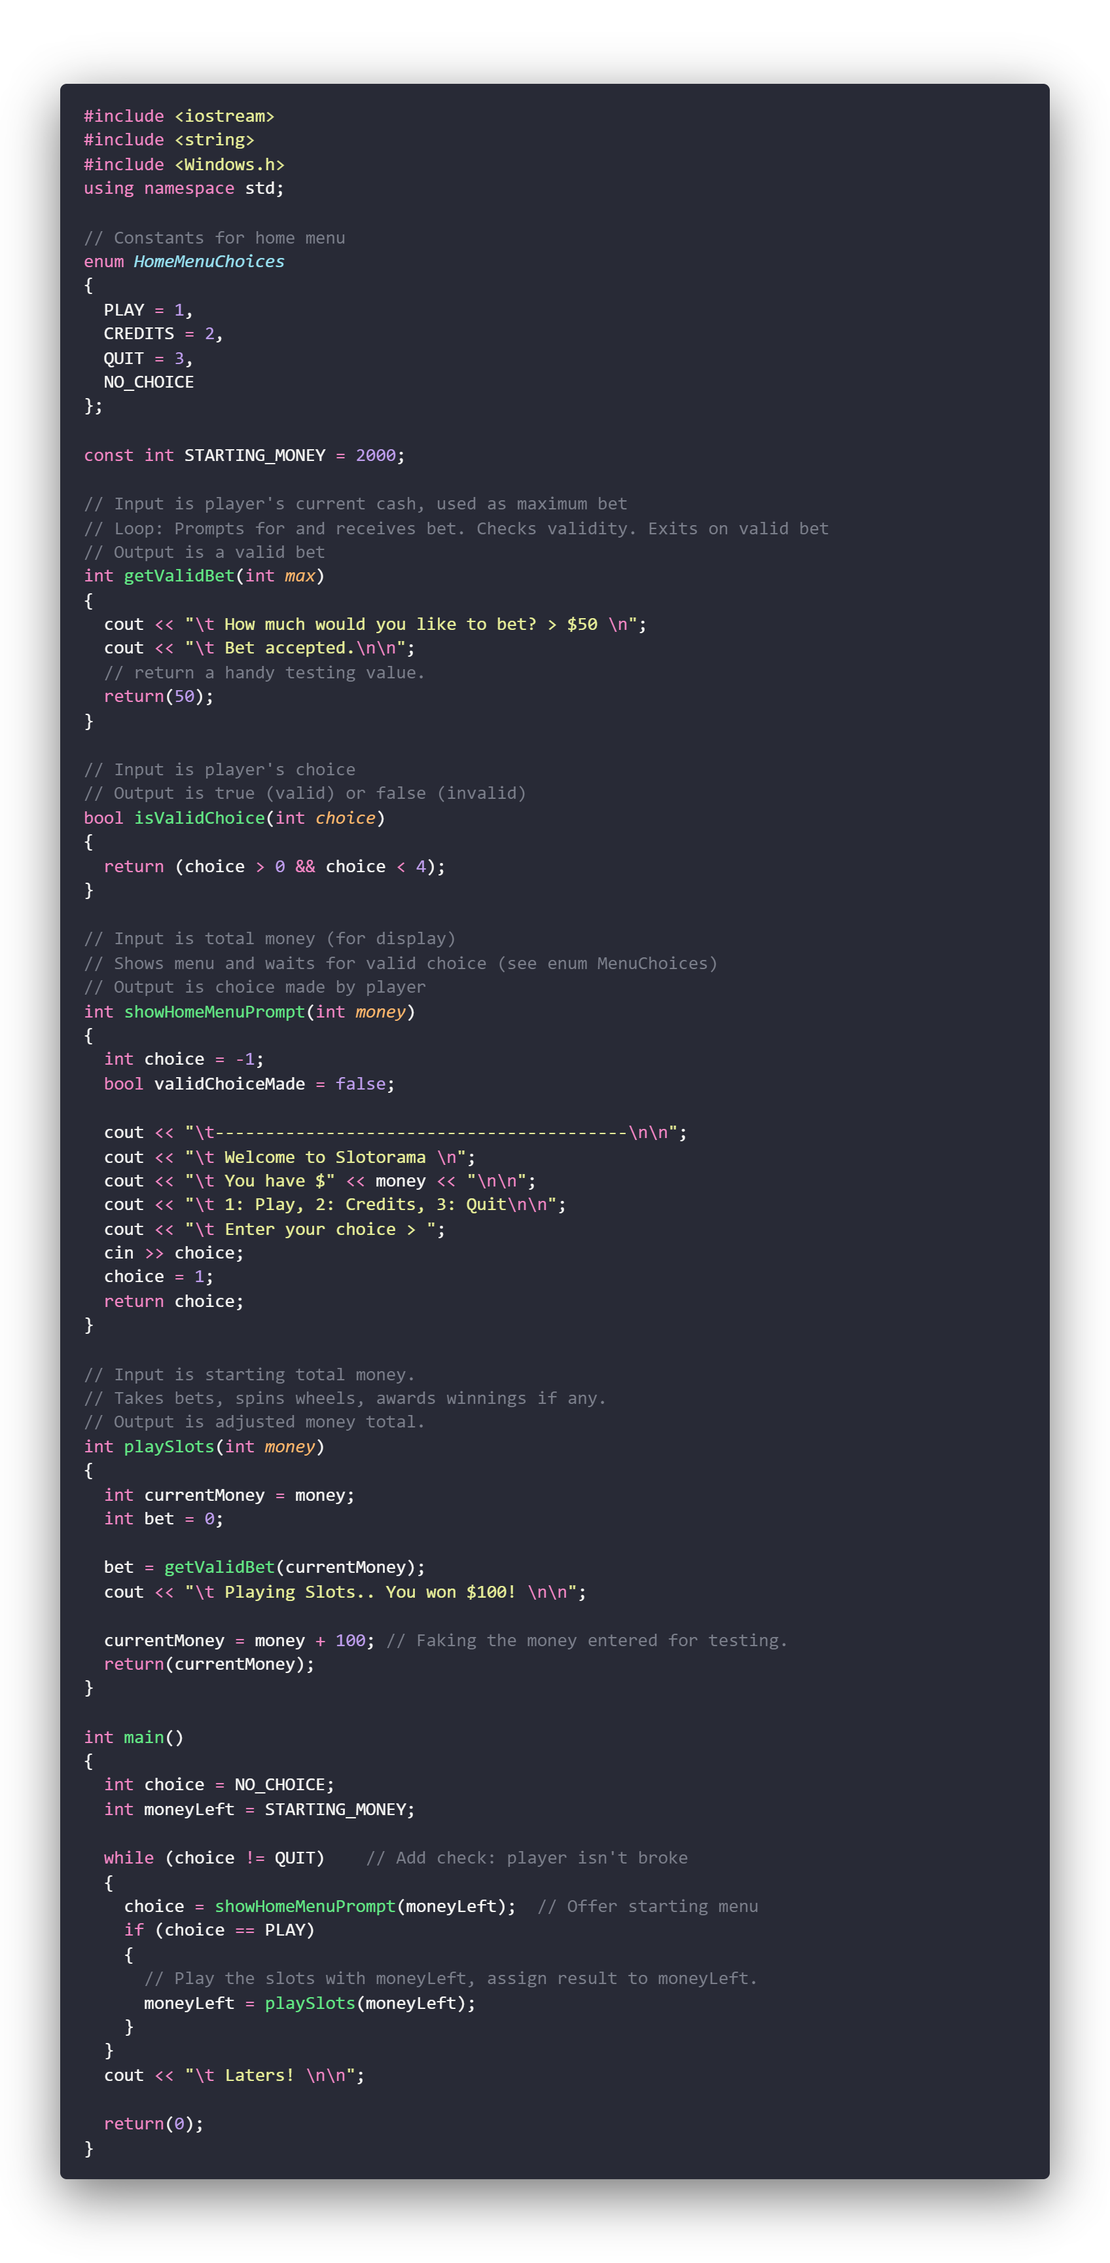
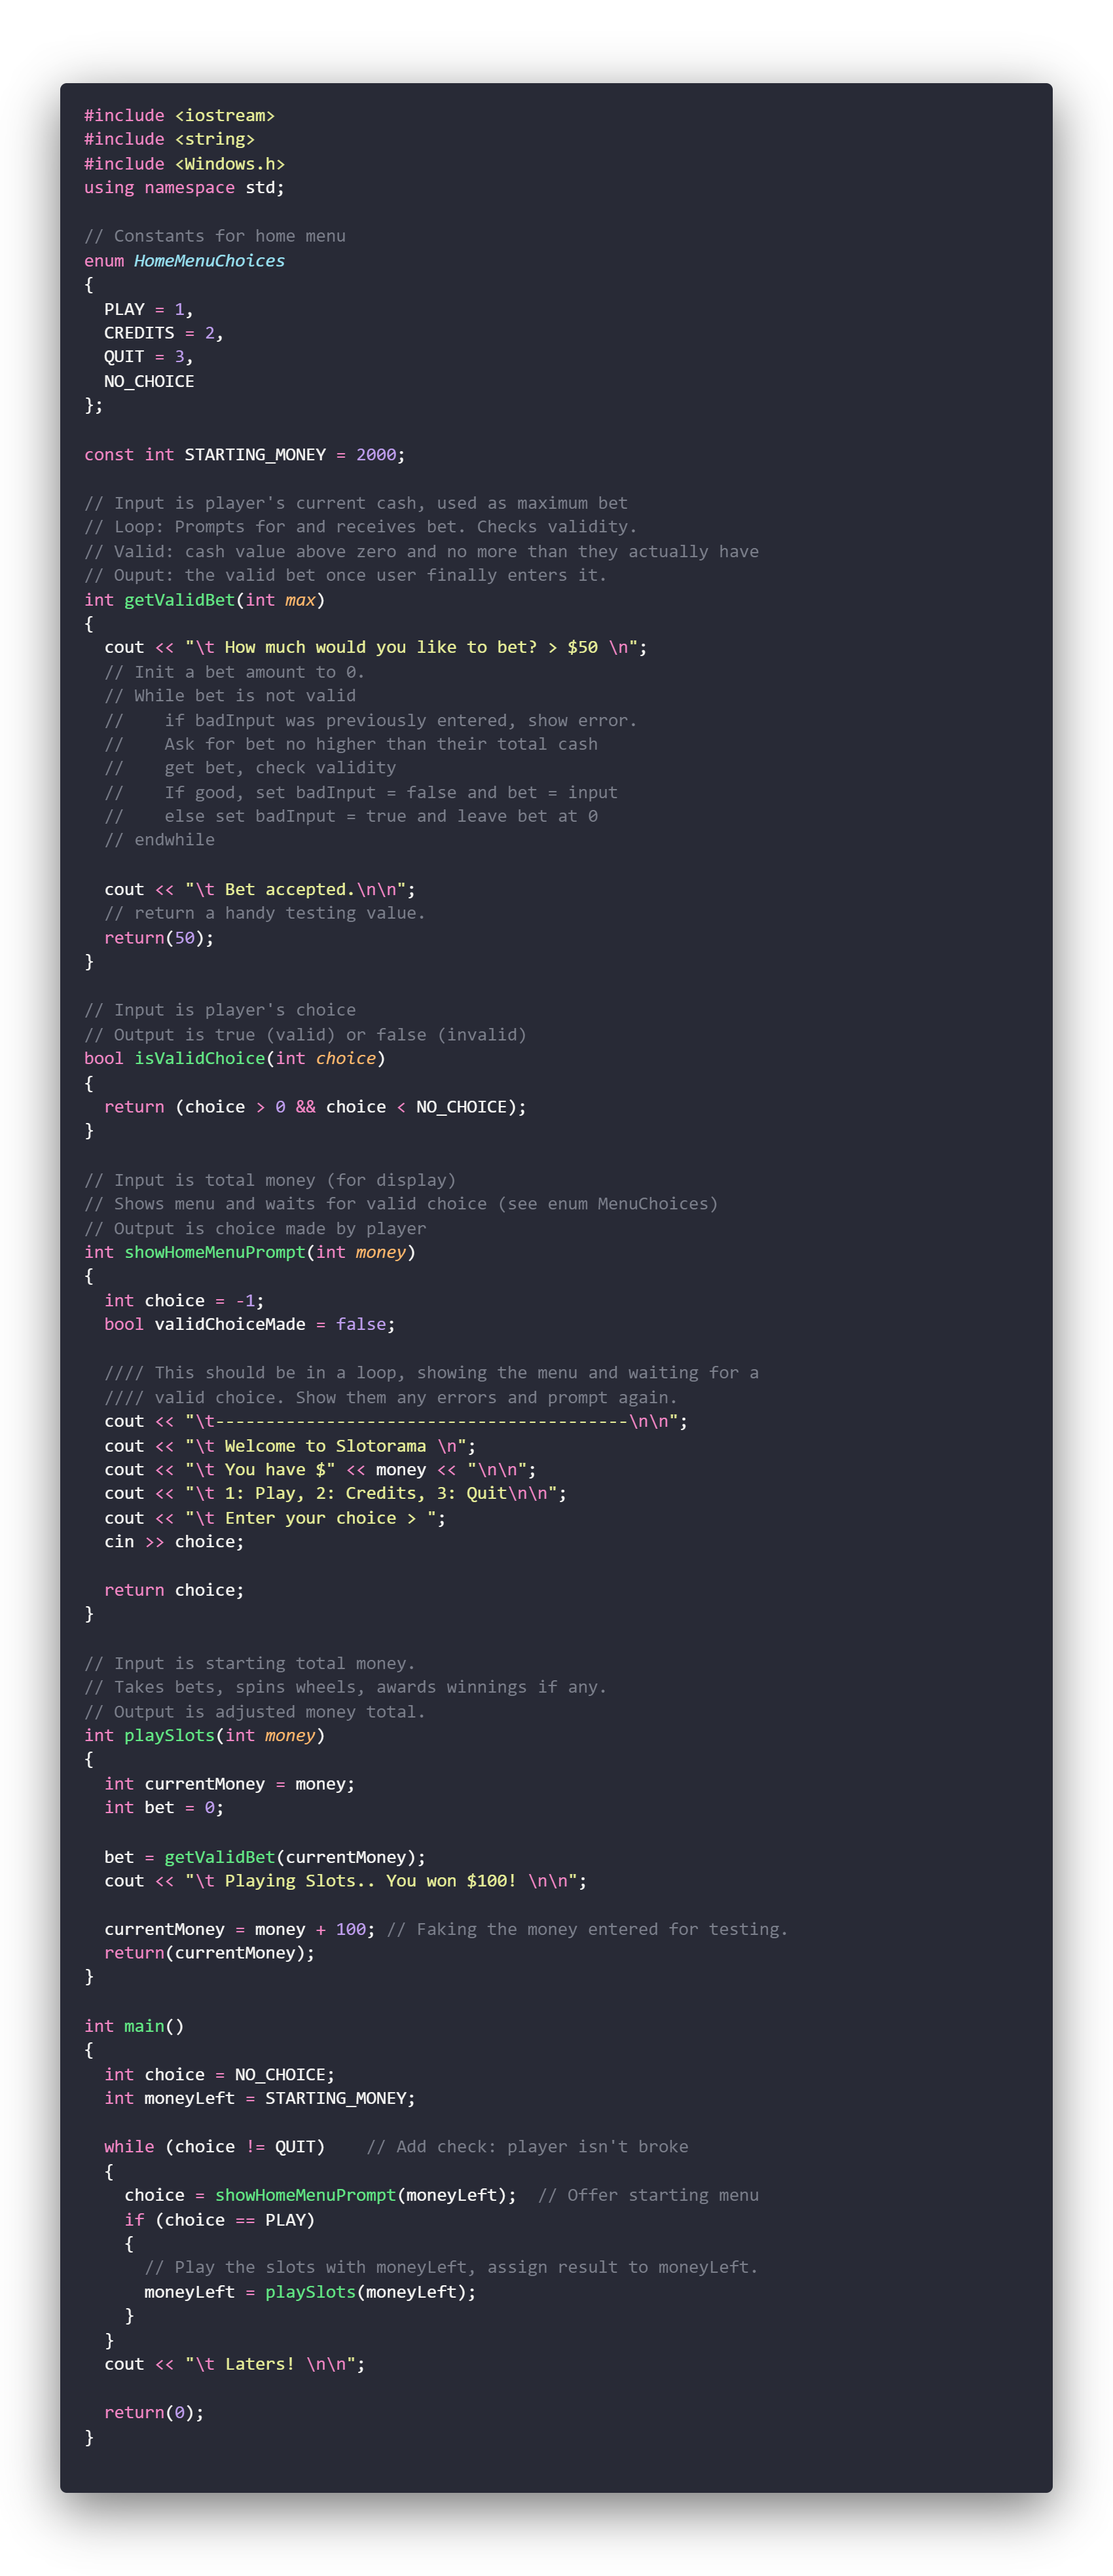
Fixes to errors found in class

diff --git a/content/en/torrens/ise102/week6/index.md b/content/en/torrens/ise102/week6/index.md
@@ -34,27 +34,28 @@ I like to set up bullet points first, before any psuedocode. As you write them o
 * Make **entire** slots game **app** (too monolithic)
 
 * Make a **menu**
-    * Show menu w cash total
-    * Get Choice
-    * Go to sub-screen or quit
+  * Show menu w cash total
+  * Get Choice
+  * Go to sub-screen or quit  
 
-* Make the slots **game part**
-    * Show cash
-    * Get user bet
-    * Take away bet
-    * show 3 random numbers 2-7
-    * Check for wins
-    * Calculate winnings
-    * Display win/loss info
-    * Return to menu.
+
+* Make the slots **game part**  
+  * Show cash
+  * Get user bet, check it
+  * Take away bet
+  * show 3 random numbers 2-7
+  * Check for wins
+  * Calculate winnings
+  * Display win/loss info
+  * Return to menu.
 
 * Make **credits** part
-    * Show credits (think film credits: who made what)
-    * Return to menu
+  * Show credits (think film credits: who made what)
+  * Return to menu
 
 * Make **quitting** part
-    * Tell them how they did
-    * Thank them or pick on them.
+  * Tell them how they did
+  * Thank them or pick on them.
 
 That's still a lot to do, but we don't have to do it all at once. 
 
@@ -74,9 +75,8 @@ Click to expand.
 
 The output:
 {{< imgcard output_slots_skeleton_1 Link "output_slots_skeleton_1.png">}}
-Hi scores, realistic sports action.
+The game loop works, the winnings are accruing.
 {{< /imgcard >}}
-
 
 ## Strategy: Making Functions Work As A Team
 
@@ -93,7 +93,6 @@ Everyone has a job, one guy is the lead.
     * **Hacker** gets security codes and camera ids
     * **Unhappy employee** draws a layout of the cameras and their blindspots, intel on staff.
     * **Explosives guy** gets.. explosives.
-  
   * Do something important for the job
     * **Loud comedian** runs a distraction
     * Safe guy **opens** a lock
@@ -157,7 +156,7 @@ Click to expand.
 
 The output:
 {{< imgcard output_slots_skeleton_2 Link "output_slots_skeleton_2.png">}}
-Hi scores, realistic sports action.
+We know our game loop is reliable, now we've added fake betting.
 {{< /imgcard >}}
 
 
@@ -199,8 +198,15 @@ From the _Online Etymology Dictionary:_
 
 ## Homework
 
-**Replace psuedocode** in _slots skeleton 3_ 
-**Add** a function to show the 3 random numbers (just fake the data).
-**Add** an enum for outcome of spin: no win, pair, three of a kind, three sevens.
-**Return** an int from the function for the outcome (something from the enum)
-**Reading** needed to get functions dialled now. 
+### Code 
+1. **Replace psuedocode** in _slots\_skeleton\_2_:
+  - getValidBet needs to get bet, check is valid, loop if it isn't valid.
+  - showHomeMenuPrompt needs to loop if choice is invalid
+2. **Add** a function to show the 3 random numbers (just fake the data).
+3. **Add** an enum for outcome of spin: no win, pair, three of a kind, three sevens.
+
+### Read
+
+TBC
+<!--**Return** an int from the function for the outcome (something from the enum)
+**Reading** needed to get functions dialled now.  -->
